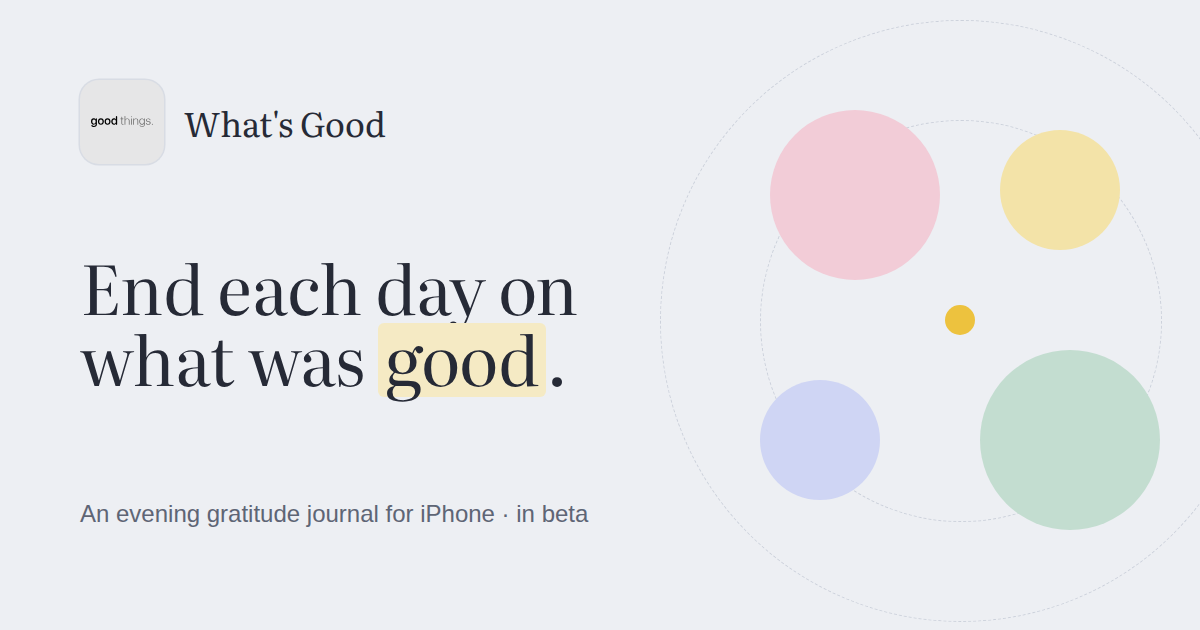
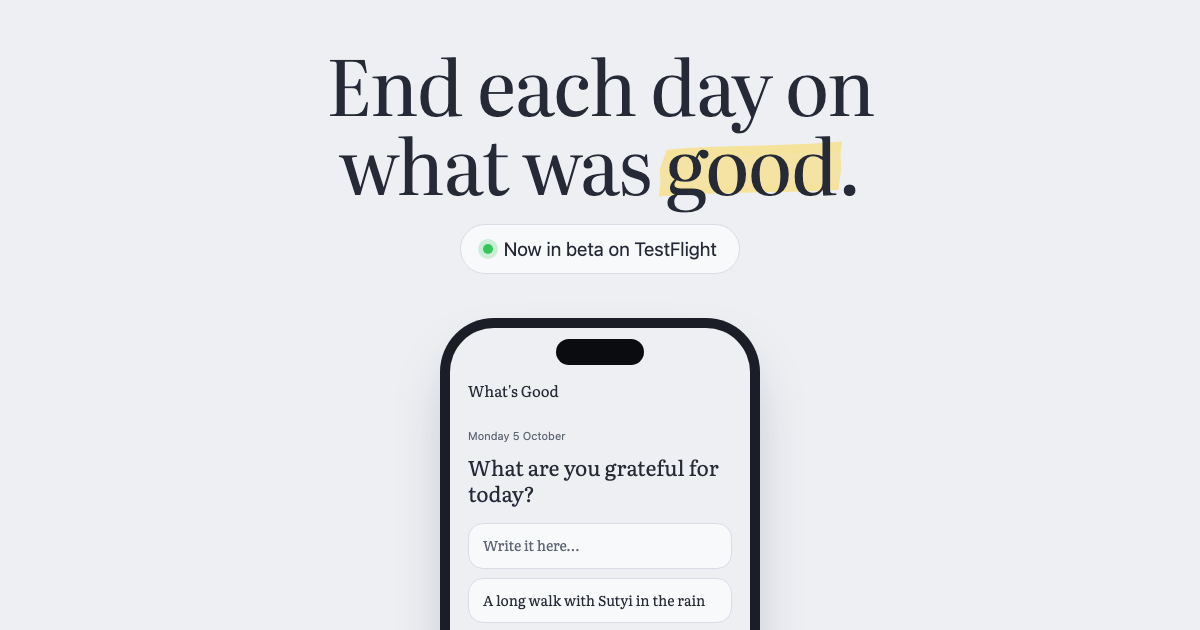
Phones: captions without labels, a bigger phone; the link preview shows the mobile view (#6)
* Phones: the story's captions lose their labels; the phone grows

Tonight, Journal and Map are gone from the captions (the phone's own tab
bar says where you are); the caption's space and the gap under it shrink,
and the phone takes the room: 259 → 276 px wide on a 375 × 812 screen.

* Link preview: the mobile view, not the desktop layout

og.png (1200 × 630) is now the hero as it looks on a phone: the headline
with its highlighter mark, the beta chip with its green dot, and the drawn
phone rising from the bottom on Tonight. Rendered with the site's own CSS
in headless Chrome. The page points to it on whatsgoodapp.vercel.app with
?v=2 so Messages and others fetch the new image, and says its size and
alt text.

---------

diff --git a/index.html b/index.html
@@ -9,7 +9,10 @@
 <meta name="theme-color" content="#171B26" media="(prefers-color-scheme: dark)">
 <meta property="og:title" content="What's Good">
 <meta property="og:description" content="End each day on what was good. An evening gratitude journal for iPhone, now in beta.">
-<meta property="og:image" content="https://mikkemakka.github.io/whatsgood-site/assets/og.png">
+<meta property="og:image" content="https://whatsgoodapp.vercel.app/assets/og.png?v=2">
+<meta property="og:image:width" content="1200">
+<meta property="og:image:height" content="630">
+<meta property="og:image:alt" content="End each day on what was good. What's Good on iPhone, now in beta on TestFlight.">
 <meta property="og:type" content="website">
 <meta name="twitter:card" content="summary_large_image">
 <link rel="icon" href="assets/favicon.png" type="image/png">
@@ -127,7 +130,6 @@
 
     <div class="story-pin" aria-hidden="true">
       <div class="story-caption">
-        <span class="eyebrow" data-cap="label">Tonight</span>
         <h2 data-cap="title">One question every night.</h2>
         <p data-cap="text">Write what was good today. One card is enough.</p>
       </div>
@@ -331,10 +333,10 @@
   const mobile = matchMedia('(max-width: 600px)'), still = matchMedia('(prefers-reduced-motion: reduce)');
 
   const steps = [
-    { view: 'tonight', weight: 2, label: 'Tonight', title: 'One question every night.', text: 'Write what was good today. One card is enough.' },
-    { view: 'journal', weight: 1.2, label: 'Journal', title: 'Every evening, kept.', text: 'Every good thing goes into your journal, one card a day.' },
-    { view: 'map', weight: 1, label: 'Map', title: 'Your life, drawn as it grows.', text: 'What you write about gathers around you. You never tag a thing.' },
-    { view: 'outdoors', weight: 1.3, label: 'Map', title: 'Look closer.', text: 'Down to the morning you wrote about, all drawn on your iPhone.' },
+    { view: 'tonight', weight: 2, title: 'One question every night.', text: 'Write what was good today. One card is enough.' },
+    { view: 'journal', weight: 1.2, title: 'Every evening, kept.', text: 'Every good thing goes into your journal, one card a day.' },
+    { view: 'map', weight: 1, title: 'Your life, drawn as it grows.', text: 'What you write about gathers around you. You never tag a thing.' },
+    { view: 'outdoors', weight: 1.3, title: 'Look closer.', text: 'Down to the morning you wrote about, all drawn on your iPhone.' },
   ];
   const total = steps.reduce((n, s) => n + s.weight, 0);
   const tonight = ['Pancakes with the kids before school', 'A long walk with Sutyi in the rain'];
@@ -372,19 +374,18 @@
 
   function size() {
     document.documentElement.style.setProperty('--header-h', `${document.querySelector('.site-header').offsetHeight}px`);
-    const avail = pin.clientHeight - caption.offsetHeight - 18 - 24;
+    const avail = pin.clientHeight - caption.offsetHeight - 12 - 24;
     const s = clamp(Math.min(avail / 692, (innerWidth - 48) / 320), .4, 1);
     box.style.width = `${320 * s}px`; box.style.height = `${692 * s}px`;
     phone.style.transform = `scale(${s})`;
     // At the top of the page the phone sits up in the caption's (still empty) space, close under the
     // hero; it gives that space back as the page scrolls, moving slower than the text above it.
-    lift = Math.max(0, caption.offsetHeight + 18 - 40);
+    lift = Math.max(0, caption.offsetHeight + 12 - 40);
     approach = Math.max(1, story.getBoundingClientRect().top + scrollY - (parseFloat(getComputedStyle(pin).top) || 0));
   }
 
   function setCaption(i, first) {
     const c = steps[i];
-    $('[data-cap="label"]').textContent = c.label;
     $('[data-cap="title"]').textContent = c.title;
     $('[data-cap="text"]').textContent = c.text;
     // A new caption rises in; its words animate, not the caption, whose opacity follows the scroll.

diff --git a/style.css b/style.css
@@ -204,9 +204,9 @@ h1, h2 { text-wrap: balance; }
   .js .story { display: block; position: relative; height: calc(100svh + 5.5 * 80svh); margin-top: 8px; }
   .story-pin {
     position: sticky; top: var(--header-h, 68px); height: calc(100svh - var(--header-h, 68px));
-    display: flex; flex-direction: column; align-items: center; gap: 18px; padding: 8px 24px 16px;
+    display: flex; flex-direction: column; align-items: center; gap: 12px; padding: 8px 24px 16px;
   }
-  .story-caption { opacity: 0; width: 100%; max-width: 340px; height: 142px; flex: none; display: flex; flex-direction: column; justify-content: flex-end; align-items: center; gap: 6px; text-align: center; }
+  .story-caption { opacity: 0; width: 100%; max-width: 340px; height: 112px; flex: none; display: flex; flex-direction: column; justify-content: flex-end; align-items: center; gap: 6px; text-align: center; }
   .story-caption h2 { margin: 0; font-size: 26px; line-height: 1.15; letter-spacing: -.01em; text-wrap: balance; }
   .story-caption p { margin: 0; font-size: 15px; line-height: 1.5; color: var(--muted); text-wrap: balance; }
   .story-phone { position: relative; flex: none; }
